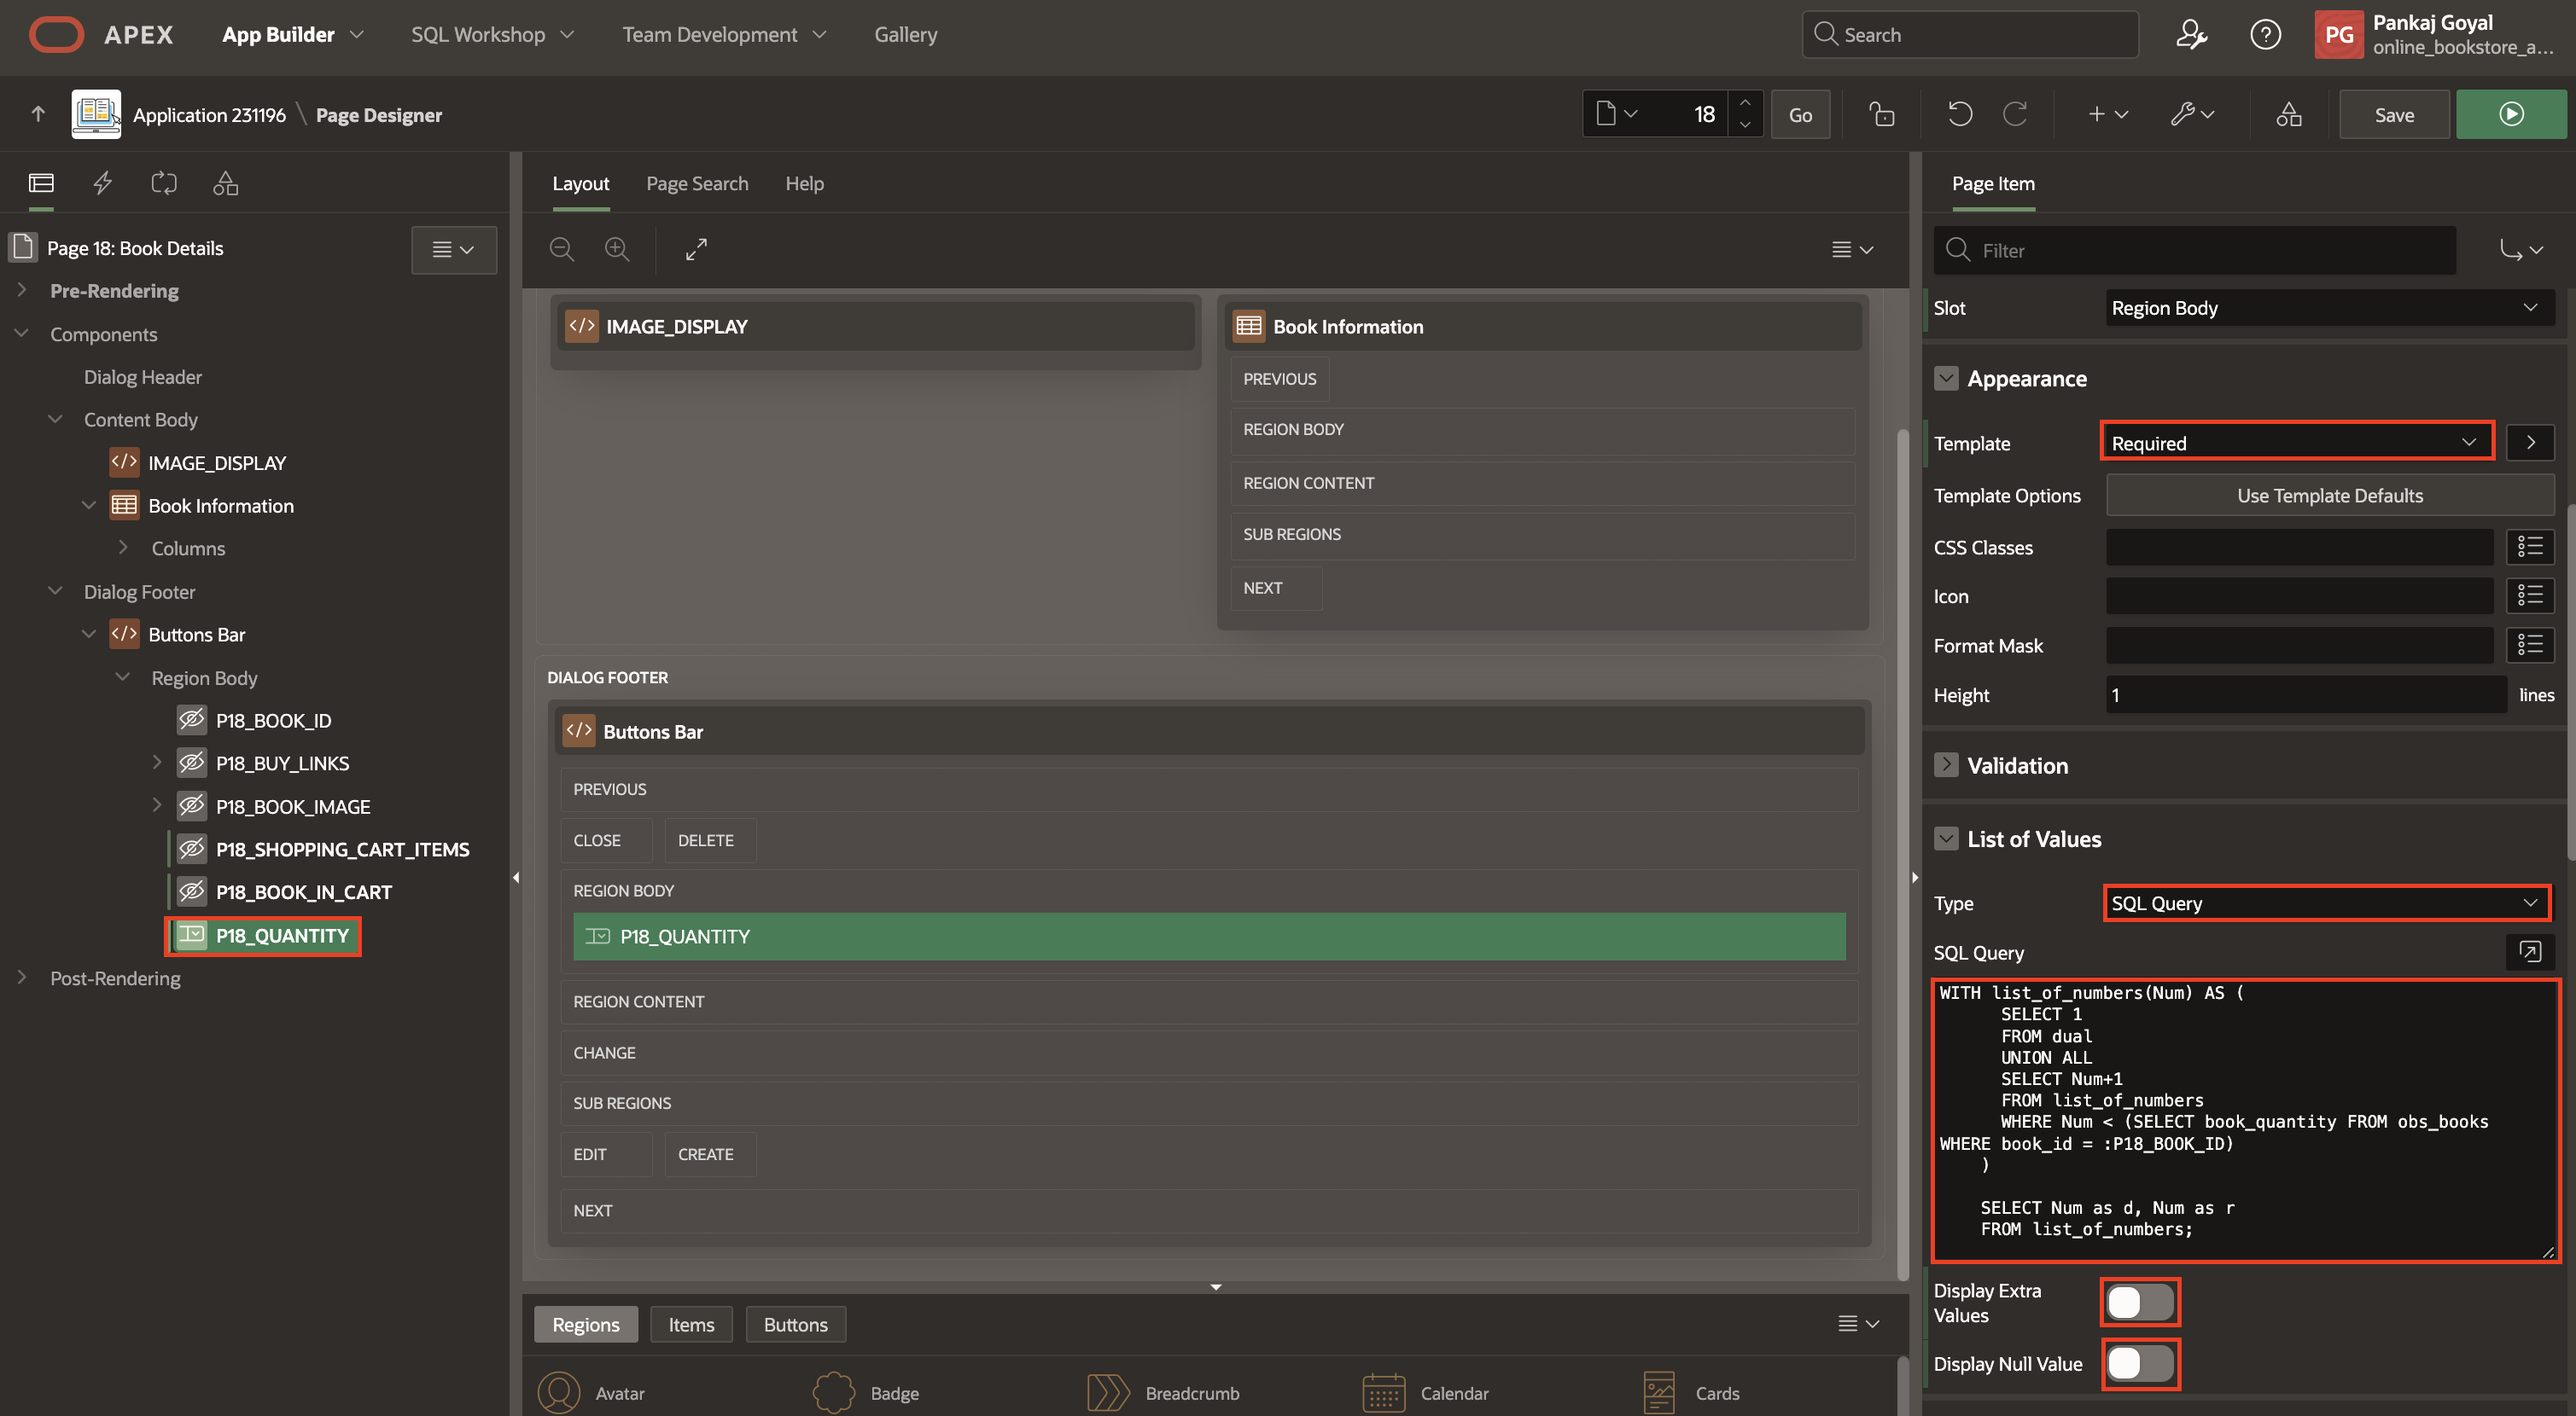
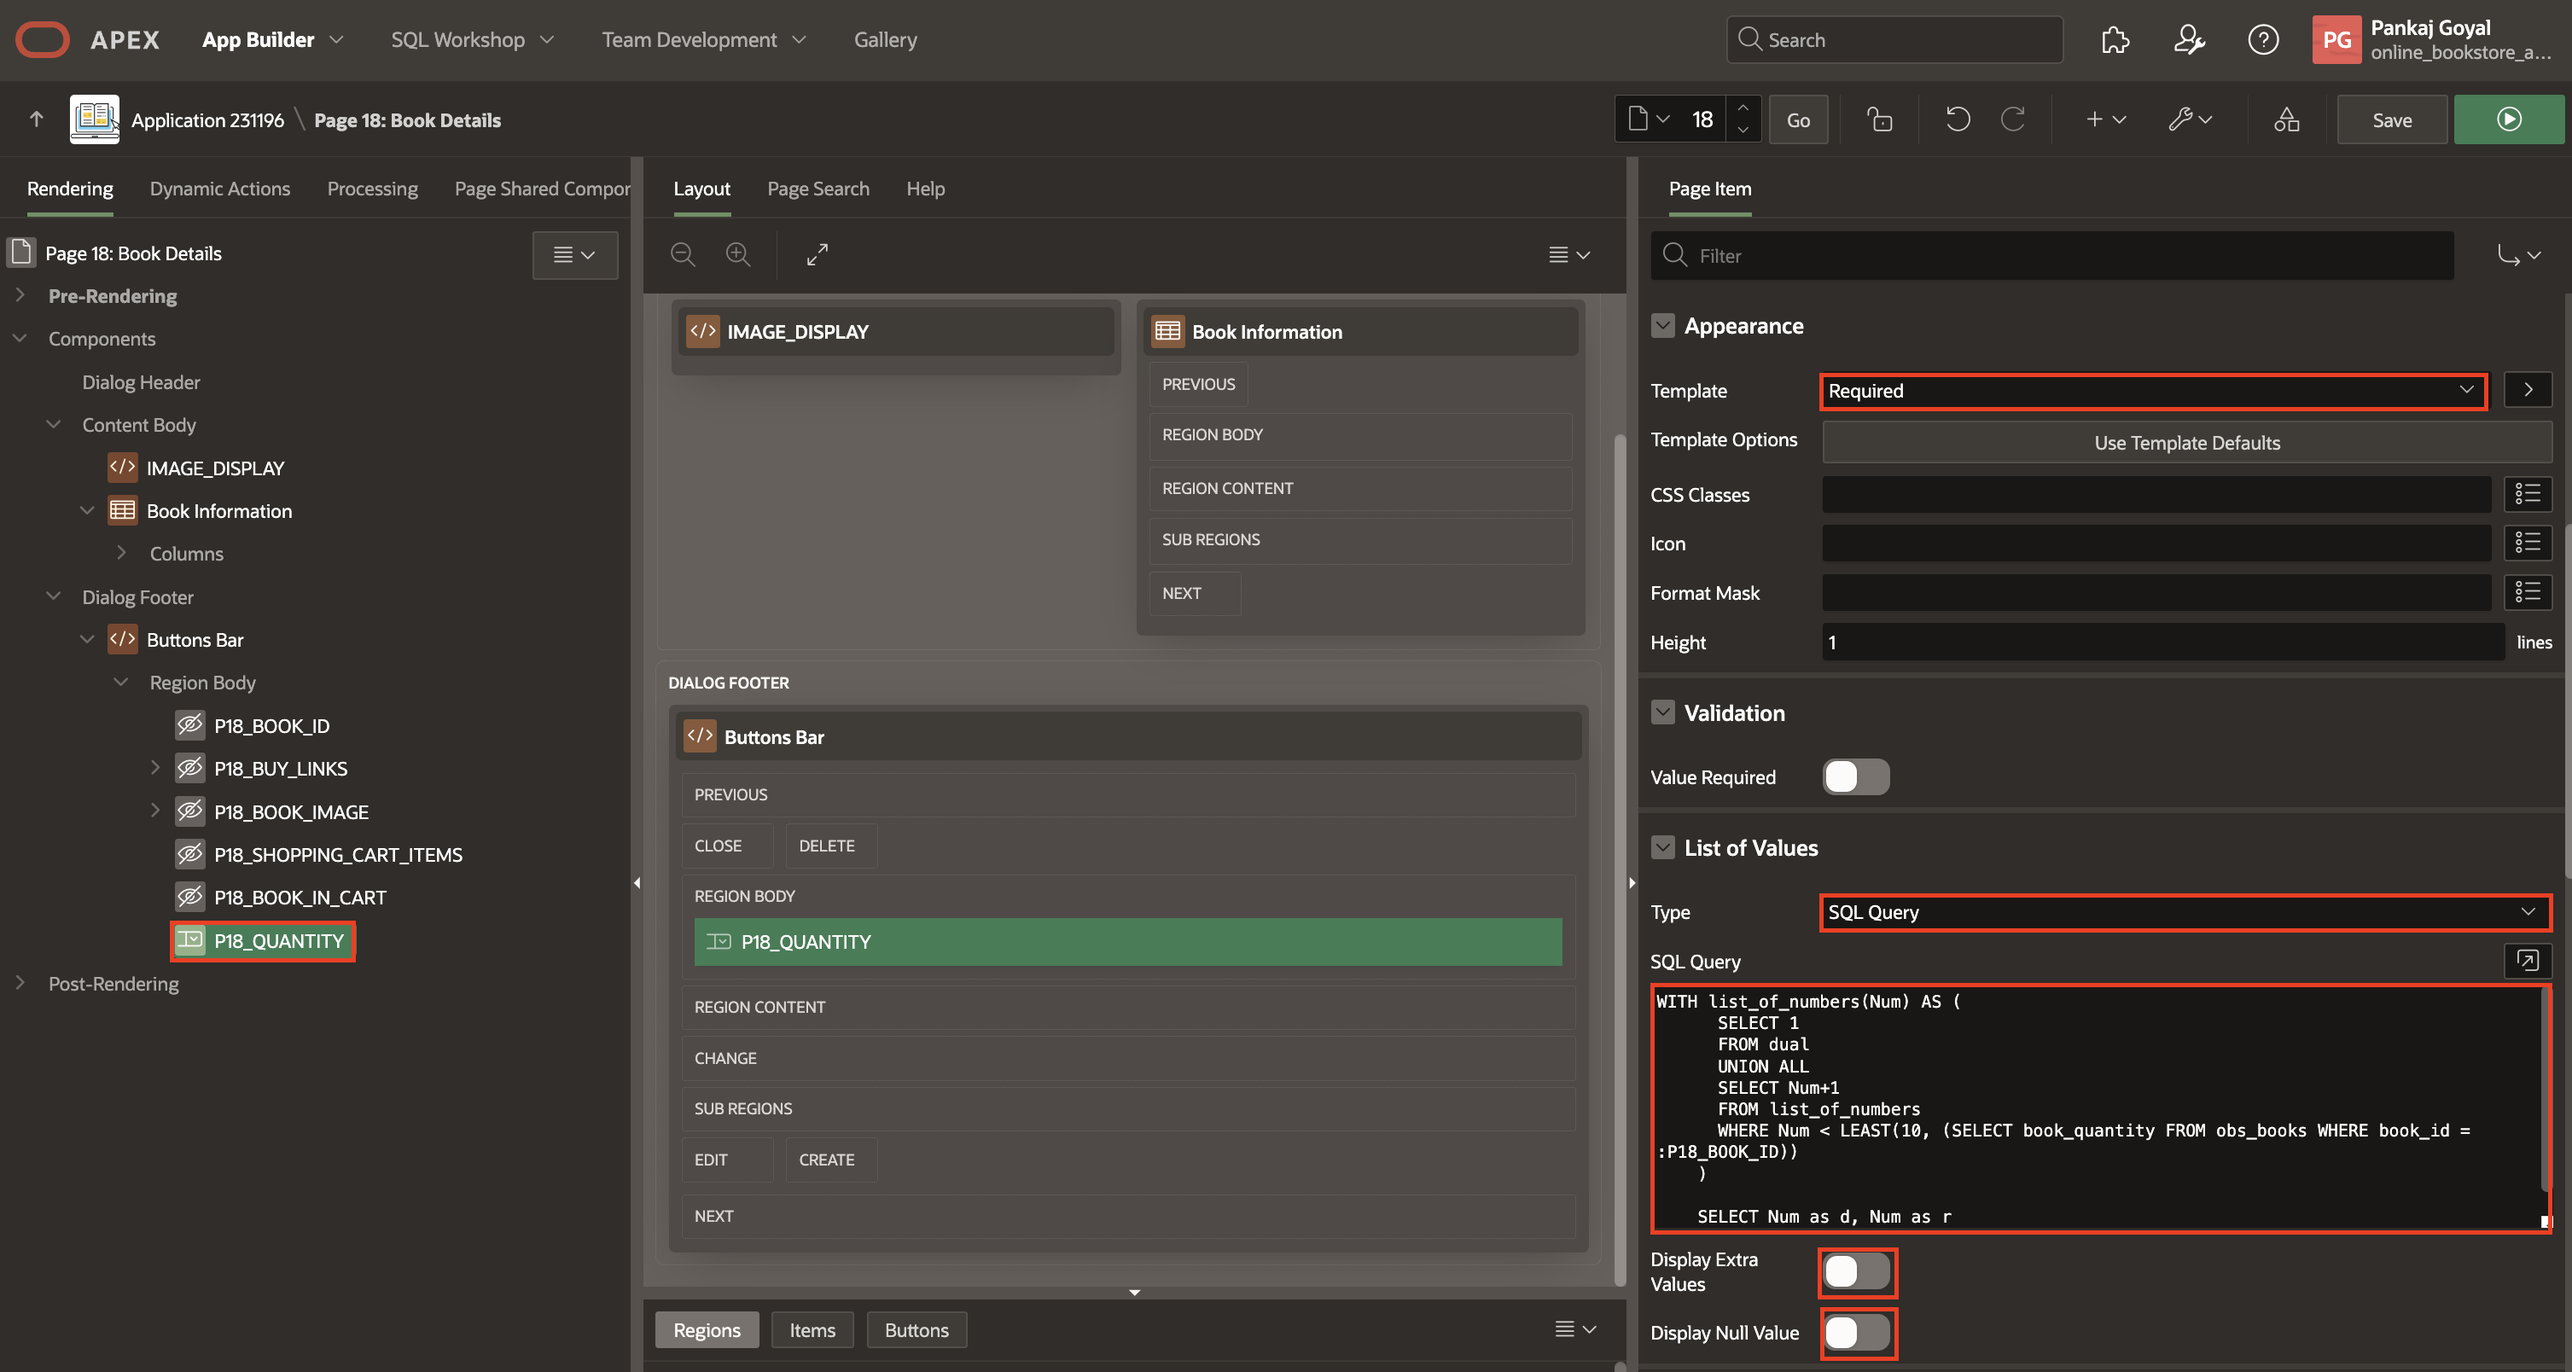
OBS 24.2 Feedback fixes

diff --git a/online-bookstore-app/6-add-to-cart/add-to-cart.md b/online-bookstore-app/6-add-to-cart/add-to-cart.md
@@ -455,7 +455,7 @@ In this task, you enhance the Book Details page by enabling the addition and rem
               UNION ALL
               SELECT Num+1
               FROM list_of_numbers
-              WHERE Num < (SELECT book_quantity FROM obs_books WHERE book_id = :P18_BOOK_ID)
+              WHERE Num < LEAST(10, (SELECT book_quantity FROM obs_books WHERE book_id = :P18_BOOK_ID))
             )
 
             SELECT Num as d, Num as r
@@ -744,13 +744,24 @@ In this task, you create a navigation bar entry that displays a shopping cart ic
     - Setting > Code: Copy and paste the below code:
 
         ```
-    <copy>
-    // Update Badge Text
-    apex.jQuery(".js-shopping-cart-item .t-Button-badge").text(this.data.P18_SHOPPING_CART_ITEMS);
-    // Update Icon
-    apex.jQuery(".js-shopping-cart-item .t-Icon").removeClass('fa-cart-empty').addClass('fa-cart-full');
-    </copy>
-    ```
+        <copy>
+        // Update Badge Text
+        apex.jQuery(".js-shopping-cart-item .t-Button-badge").text(this.data.P18_SHOPPING_CART_ITEMS);
+        // Update Icon
+        apex.jQuery(".js-shopping-cart-item .t-Icon").removeClass('fa-cart-empty').addClass('fa-cart-full');
+        </copy>
+        ```
+
+        or
+
+        ```
+        <copy>
+        // Update Badge Text
+        $(".js-shopping-cart-item .t-Button-badge").text(this.data.P18_SHOPPING_CART_ITEMS);
+        // Update Icon
+        $(".js-shopping-cart-item .t-Icon").removeClass('fa-cart-empty').addClass('fa-cart-full');
+        </copy>
+        ```
 
     ![close dialog](images/true-action.png " ")
 
@@ -761,15 +772,28 @@ In this task, you create a navigation bar entry that displays a shopping cart ic
 7. In the Property Editor, enter/select the following:
 
     - Action: Execute JavaScript Code.
+
     - Setting > Code: Copy and paste the below code:
-    ```
-    <copy>
-    // Update Badge Text
-    apex.jQuery(".js-shopping-cart-item .t-Button-badge").text('');
-    // Update Icon
-    apex.jQuery(".js-shopping-cart-item .t-Icon").removeClass('fa-cart-full').addClass('fa-cart-empty');
-    </copy>
-    ```
+
+        ```
+        <copy>
+        // Update Badge Text
+        apex.jQuery(".js-shopping-cart-item .t-Button-badge").text('');
+        // Update Icon
+        apex.jQuery(".js-shopping-cart-item .t-Icon").removeClass('fa-cart-full').addClass('fa-cart-empty');
+        </copy>
+        ```
+
+        or
+
+        ```
+        <copy>
+        // Update Badge Text
+        $(".js-shopping-cart-item .t-Button-badge").text('');
+        // Update Icon
+        $(".js-shopping-cart-item .t-Icon").removeClass('fa-cart-full').addClass('fa-cart-empty');
+        </copy>
+        ```
 
     ![close dialog](images/false-action-details.png " ")
 

diff --git a/online-bookstore-app/2-rest-data/2-rest-data-source.md b/online-bookstore-app/2-rest-data/2-rest-data-source.md
@@ -22,31 +22,33 @@ In this lab, you will:
 
 ## Task 1: Extract data using REST Data Source
 
-1. Click **App Builder** on the top Navigation Bar.
+1. You can load the data directly into the OBS\_BOOK table from this [obs\_books.csv](files/obs_books.csv) file, which is the old, basic method of data loading. Instead, explore modern approaches like fetching data dynamically from GitHub, as demonstrated in Task 1 and Task 2.
+
+2. Click **App Builder** on the top Navigation Bar.
 
     ![App builder home page](images/click-app-builder.png " ")
 
-2. Click **Online Bookstore** Application.
+3. Click **Online Bookstore** Application.
 
     ![App builder home page](images/select-obs-app.png " ")
 
-3. Click **Shared Components**.
+4. Click **Shared Components**.
 
     ![App builder home page](images/select-sc.png " ")
 
-4. Under **Data Sources**, click **REST Data Sources**.
+5. Under **Data Sources**, click **REST Data Sources**.
 
     ![App builder home page](images/rest-data-source.png " ")
 
-5. Click **Create**.
+6. Click **Create**.
 
     ![App builder home page](images/rds-create.png " ")
 
-6. On Create REST Data Source - Method, click **Next**.
+7. On Create REST Data Source - Method, click **Next**.
 
     ![App builder home page](images/rds-next1.png " ")
 
-7. On Create REST Data Source, enter/select the following:
+8. On Create REST Data Source, enter/select the following:
 
      - REST Data Source Type : **Simple HTTP**
 
@@ -65,19 +67,19 @@ In this lab, you will:
 
     ![App builder home page](images/rds-name.png " ")
 
-8. On **Create REST Data Source - Remote Server** wizard, leave as default and click **Next**.
+9. On **Create REST Data Source - Remote Server** wizard, leave as default and click **Next**.
 
     ![App builder home page](images/rds-next2.png " ")
 
-9. On **Create REST Data Source - Settings** wizard, leave as default and click **Next**.
+10. On **Create REST Data Source - Settings** wizard, leave as default and click **Next**.
 
     ![App builder home page](images/rds-next3.png " ")
 
-10. Click **Discover**. APEX invokes the REST service URL and a Preview appears.
+11. Click **Discover**. APEX invokes the REST service URL and a Preview appears.
 
     ![App builder home page](images/rds-discover.png " ")
 
-11. Click **Create REST Data Source**. The REST Data Source is created.
+12. Click **Create REST Data Source**. The REST Data Source is created.
 
     ![App builder home page](images/create-rds.png " ")
 

diff --git a/online-bookstore-app/1-create-app/create-app.md b/online-bookstore-app/1-create-app/create-app.md
@@ -77,7 +77,7 @@ In this lab, you create a simple application with one click called **Online Book
 
     ```
     <copy>
-    OBS_Users
+    Users
       user_id num /pk
       username  /nn /unique
       email  /nn /unique
@@ -89,7 +89,7 @@ In this lab, you create a simple application with one click called **Online Book
       is_admin
       picture_url
 
-    OBS_Books
+    Books
       book_id num /pk
       price num /nn
       title  /nn
@@ -106,18 +106,18 @@ In this lab, you create a simple application with one click called **Online Book
       available_yn  /nn /default Y
       text_det
 
-    OBS_Orders
+    Orders
       order_id num /pk
-      user_id num /fk OBS_Users /cascade
+      user_id num /fk Users /cascade
       order_no
       order_datetime timestamp
       payment_id vc
       razorpay_id vc
 
-    OBS_Order_Items
+    Order_Items
       Order_item_id num /pk
-      order_id num /fk OBS_Orders /cascade
-      book_id num /fk OBS_Books /cascade
+      order_id num /fk Orders /cascade
+      book_id num /fk Books /cascade
       added_time  timestamp
       added_date date
       price num
@@ -125,14 +125,14 @@ In this lab, you create a simple application with one click called **Online Book
       quantity num
       discount num
 
-    OBS_Unverified_Users
+    Unverified_Users
       user_id num /pk
       email
 
-    OBS_Wishlist
+    Wishlist
       wishlist_id num /pk
-      user_id num /fk OBS_Users /cascade
-      book_id num /fk OBS_Books /cascade
+      user_id num /fk Users /cascade
+      book_id num /fk Books /cascade
     </copy>
     ```
 

diff --git a/online-bookstore-app/5-authentication/authentication.md b/online-bookstore-app/5-authentication/authentication.md
@@ -100,7 +100,7 @@ The code also includes error handling to manage exceptions and set appropriate a
       end;
 
    -- First, check to see if the user exists
-   select count(*) into l_count from obs_users where lower(email) = lower(l_email);
+   select count(*) into l_count from obs_users where email = lower(l_email);
 
    if l_count > 0 then
 
@@ -108,7 +108,7 @@ The code also includes error handling to manage exceptions and set appropriate a
    l_hashed_password := hash_password(lower(l_email), p_password);
 
    -- Get the stored password
-   select password into l_password from obs_users where  lower(email)  = l_email;
+   select password into l_password from obs_users where email  = lower(l_email);
 
    -- Compare the two, and if there is a match, return TRUE
    if l_hashed_password = l_password then

diff --git a/online-bookstore-app/3-enhance-home-page/enhance-home-page.md b/online-bookstore-app/3-enhance-home-page/enhance-home-page.md
@@ -60,6 +60,8 @@ In this task, we will reorder the facets and edit their properties and ranges ac
 
     ![App builder home page](images/fs-discount.png " ")
 
+    *Note: The pipe symbol (|) is used as a delimiter in range facet return values, helping define upper and lower boundaries for filtering data.*
+
 5. Select **P10\_CATEGORY** facet, enter/select the following:
 
     - Layout > Sequence: **40**
